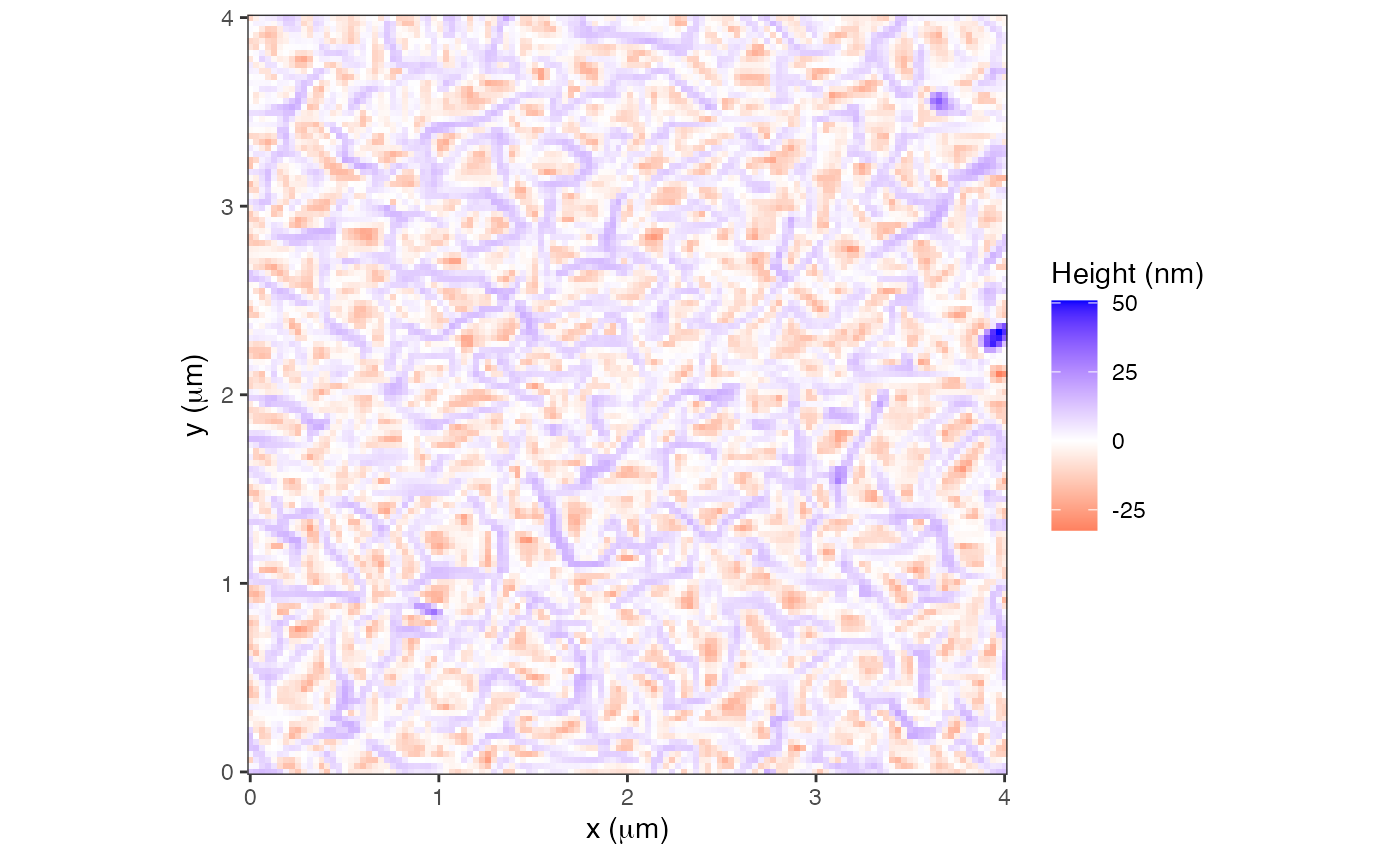
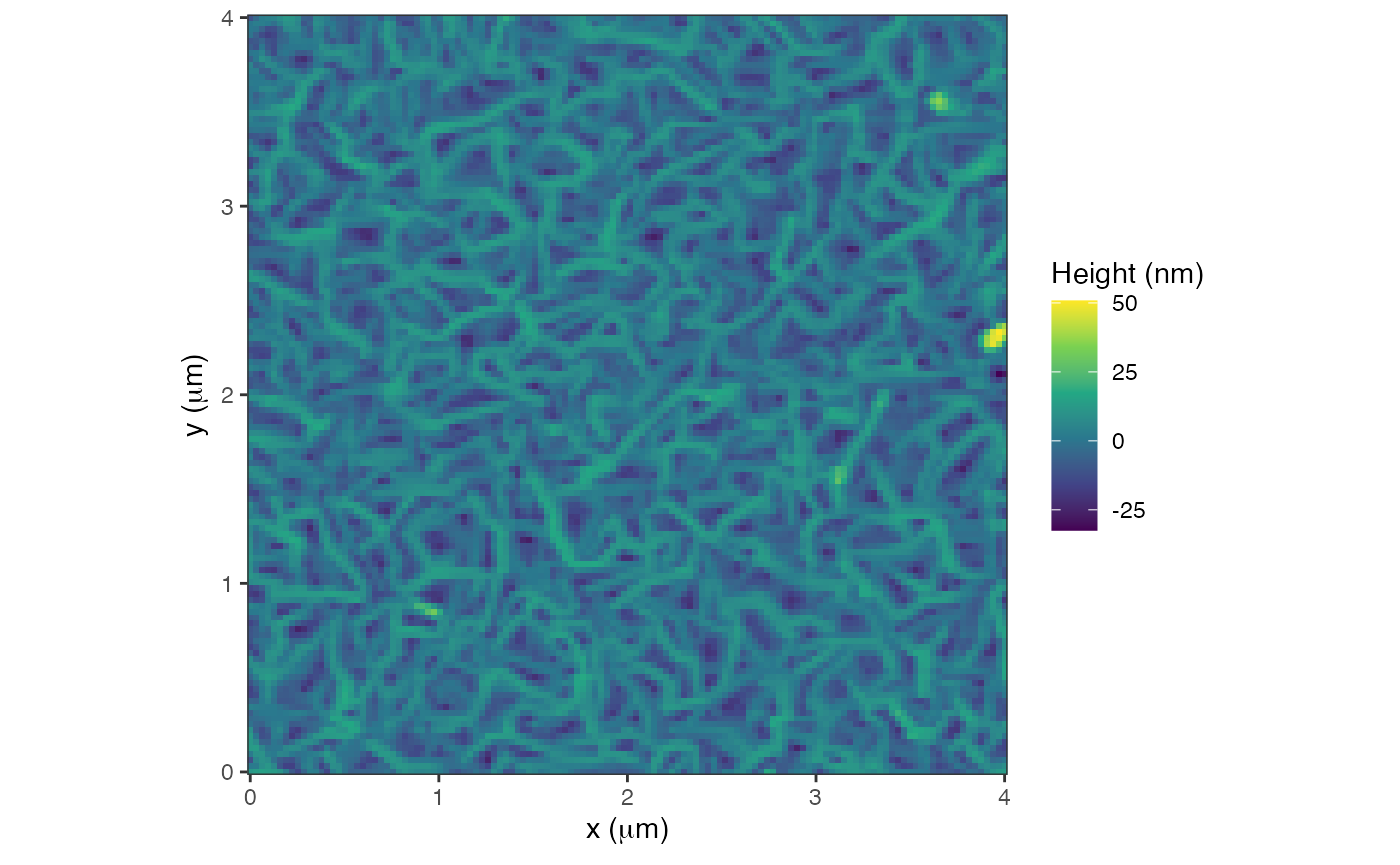
add viridis palette as default color palette

diff --git a/docs/index.html b/docs/index.html
@@ -93,9 +93,14 @@
 
 
 <div class="section level1">
-<div class="page-header"><h1 id="nanoscopeafm-">nanoscopeAFM <img src="reference/figures/logo.png" align="right" alt="" width="360"><a class="anchor" aria-label="anchor" href="#nanoscopeafm-"></a>
+<div class="page-header"><h1 id="nanoscopeafm-">nanoscopeAFM <img src="reference/figures/logo.png" align="right" alt="" width="250"><a class="anchor" aria-label="anchor" href="#nanoscopeafm-"></a>
 </h1></div>
 <p>Imports and analyzes Atomic Force Microsocpy images; currently four types are supported, images from Nanosurf (.nid), Veeco Multimode Nanoscope III (.000), Park AFM images (.tiff), and Asylum Research AFM images (.ibw).</p>
+<p>There are two main points for the development of this R package:</p>
+<ul>
+<li>Using this data class, a series of images can be analyzed uniformly and quickly.</li>
+<li>Access to each data point allows us to integrate mathematical models directly to the original data.</li>
+</ul>
 <div class="section level2">
 <h2 id="installation">Installation<a class="anchor" aria-label="anchor" href="#installation"></a>
 </h2>
@@ -120,30 +125,40 @@
 <div class="section level2">
 <h2 id="usage">Usage<a class="anchor" aria-label="anchor" href="#usage"></a>
 </h2>
-<p>Complete descriptions for <a href="https://thomasgredig.github.io/nanoscopeAFM/">nanoscopeAFM library functions</a> and examples in the <a href="https://thomasgredig.github.io/nanoscopeAFM/articles/AFM-graphTypes.html">Article Vignettes</a>.</p>
+<p>Complete descriptions for <a href="https://thomasgredig.github.io/nanoscopeAFM/">nanoscopeAFM library functions</a> and examples in the <a href="https://thomasgredig.github.io/nanoscopeAFM/articles/">Article Vignettes</a>.</p>
+<div class="section level3">
+<h3 id="afm-data">AFM data<a class="anchor" aria-label="anchor" href="#afm-data"></a>
+</h3>
 <p>Use this package to generate <code>AFMdata</code> S4 data objects, which can be used to quickly display AFM data and also process AFM data. Here are some examples:</p>
-<p>Creating an <code>AFMdata</code> data object:</p>
+<p>Creating an <code>AFMdata</code> data object, then output a graph and output a summary of characteristics:</p>
 <div class="sourceCode" id="cb2"><pre class="downlit sourceCode r">
-<code class="sourceCode R"><span class="va">d</span> <span class="op">=</span> <span class="fu"><a href="reference/AFM.import.html">AFM.import</a></span><span class="op">(</span><span class="st">'image.ibw'</span><span class="op">)</span>
-<span class="fu"><a href="https://rdrr.io/r/base/class.html" class="external-link">class</a></span><span class="op">(</span><span class="va">d</span><span class="op">)</span></code></pre></div>
-<p>Print essential data and output a summary:</p>
-<div class="sourceCode" id="cb3"><pre class="downlit sourceCode r">
-<code class="sourceCode R"><span class="fu"><a href="https://rdrr.io/r/base/print.html" class="external-link">print</a></span><span class="op">(</span><span class="va">d</span><span class="op">)</span>
+<code class="sourceCode R"><span class="va">d</span> <span class="op">=</span> <span class="fu"><a href="reference/AFM.import.html">AFM.import</a></span><span class="op">(</span><span class="fu"><a href="reference/AFM.getSampleImages.html">AFM.getSampleImages</a></span><span class="op">(</span>type<span class="op">=</span><span class="st">'ibw'</span><span class="op">)</span><span class="op">)</span>
+<span class="fu"><a href="https://rdrr.io/r/base/class.html" class="external-link">class</a></span><span class="op">(</span><span class="va">d</span><span class="op">)</span>
+<span class="fu"><a href="https://rdrr.io/r/graphics/plot.default.html" class="external-link">plot</a></span><span class="op">(</span><span class="va">d</span><span class="op">)</span>
+<span class="fu"><a href="https://rdrr.io/r/base/print.html" class="external-link">print</a></span><span class="op">(</span><span class="va">d</span><span class="op">)</span>
 <span class="fu"><a href="https://rdrr.io/r/base/summary.html" class="external-link">summary</a></span><span class="op">(</span><span class="va">d</span><span class="op">)</span></code></pre></div>
-<p>Graph the object using ggplot2 package:</p>
-<div class="sourceCode" id="cb4"><pre class="downlit sourceCode r">
-<code class="sourceCode R"><span class="fu"><a href="https://rdrr.io/r/graphics/plot.default.html" class="external-link">plot</a></span><span class="op">(</span><span class="va">d</span><span class="op">)</span></code></pre></div>
 </div>
-<div class="section level2">
-<h2 id="image-info">Image Info<a class="anchor" aria-label="anchor" href="#image-info"></a>
-</h2>
-<p>Use the <code><a href="reference/AFMinfo.html">AFMinfo()</a></code> function to obtain information about the AFM image. The information depends on the file format, but some items are common for all images; these items start with <strong>“INFO.”</strong>.</p>
+<div class="section level3">
+<h3 id="afm-info">AFM info<a class="anchor" aria-label="anchor" href="#afm-info"></a>
+</h3>
+<p>Use the <code><a href="reference/AFMinfo.html">AFMinfo()</a></code> function to obtain information about the AFM image. The information depends on the file format, but some items are common for all images, see <code>names(h)</code>, such as <code>widthPixel</code>, <code>scanRate.Hz</code>, etc.; others can be obtained with <code><a href="reference/AFMinfo.item.html">AFMinfo.item()</a></code>.</p>
+<div class="sourceCode" id="cb3"><pre class="downlit sourceCode r">
+<code class="sourceCode R"><span class="va">afmInfo</span> <span class="op">=</span> <span class="fu"><a href="reference/AFMinfo.html">AFMinfo</a></span><span class="op">(</span><span class="fu"><a href="reference/AFM.getSampleImages.html">AFM.getSampleImages</a></span><span class="op">(</span>type<span class="op">=</span><span class="st">'ibw'</span><span class="op">)</span><span class="op">)</span>
+<span class="fu"><a href="reference/AFMinfo.item.html">AFMinfo.item</a></span><span class="op">(</span><span class="va">afmInfo</span>, <span class="st">'ScanSpeed'</span><span class="op">)</span></code></pre></div>
+<p>The AFM image information can also be exported to a file.</p>
+<div class="sourceCode" id="cb4"><pre class="downlit sourceCode r">
+<code class="sourceCode R"><span class="fu"><a href="https://rdrr.io/r/utils/write.table.html" class="external-link">write.csv</a></span><span class="op">(</span><span class="va">afmInfo</span><span class="op">$</span><span class="va">data</span>, file<span class="op">=</span><span class="st">'AFMinfo.csv'</span>, row.names <span class="op">=</span> <span class="cn">FALSE</span><span class="op">)</span></code></pre></div>
+</div>
+<div class="section level3">
+<h3 id="afm-math">AFM math<a class="anchor" aria-label="anchor" href="#afm-math"></a>
+</h3>
+<p>Some properties about the image are included in the <code>AFMdata</code> object, but others - like the roughness - need to be computed. In order to obtain, the computed values, use the <code>AFMmath</code> object, which is generated from the <code>AFMdata</code> class.</p>
 <div class="sourceCode" id="cb5"><pre class="downlit sourceCode r">
-<code class="sourceCode R"><span class="va">r1</span> <span class="op">=</span> <span class="fu"><a href="reference/AFMinfo.html">AFMinfo</a></span><span class="op">(</span><span class="va">fname</span><span class="op">)</span>
-<span class="fu"><a href="https://rdrr.io/r/base/summary.html" class="external-link">summary</a></span><span class="op">(</span><span class="va">fname</span><span class="op">)</span></code></pre></div>
-<p>The AFM image information can also be saved into a file.</p>
-<div class="sourceCode" id="cb6"><pre class="downlit sourceCode r">
-<code class="sourceCode R"><span class="fu"><a href="https://rdrr.io/r/utils/write.table.html" class="external-link">write.csv</a></span><span class="op">(</span><span class="va">r1</span><span class="op">$</span><span class="va">data</span>, file<span class="op">=</span><span class="st">'AFMinfo.csv'</span>, row.names <span class="op">=</span> <span class="cn">FALSE</span><span class="op">)</span></code></pre></div>
+<code class="sourceCode R"><span class="va">filename</span> <span class="op">=</span> <span class="fu"><a href="reference/AFM.getSampleImages.html">AFM.getSampleImages</a></span><span class="op">(</span>type<span class="op">=</span><span class="st">'ibw'</span><span class="op">)</span>
+<span class="va">afmMath</span> <span class="op">=</span> <span class="fu"><a href="reference/AFM.math.params.html">AFM.math.params</a></span><span class="op">(</span><span class="fu"><a href="reference/AFM.import.html">AFM.import</a></span><span class="op">(</span><span class="va">filename</span><span class="op">)</span><span class="op">)</span>
+<span class="fu"><a href="https://rdrr.io/r/base/summary.html" class="external-link">summary</a></span><span class="op">(</span><span class="va">afmMath</span><span class="op">)</span>
+<span class="va">afmMath</span><span class="op">$</span><span class="va">Ra</span></code></pre></div>
+</div>
 </div>
 <div class="section level2">
 <h2 id="image-analysis">Image Analysis<a class="anchor" aria-label="anchor" href="#image-analysis"></a>
@@ -155,20 +170,18 @@
 <li><a href="https://thomasgredig.github.io/nanoscopeAFM/reference/AFM.linePlot.html">Profile lines</a></li>
 <li><a href="https://thomasgredig.github.io/nanoscopeAFM/reference/AFM.math.params.html">Roughness analysis</a></li>
 </ul>
+<p>Example to extract image roughness for a series of images:</p>
+<div class="sourceCode" id="cb6"><pre class="downlit sourceCode r">
+<code class="sourceCode R"><span class="va">file.list</span> <span class="op">=</span> <span class="fu"><a href="reference/AFM.getSampleImages.html">AFM.getSampleImages</a></span><span class="op">(</span><span class="op">)</span>
+<span class="va">Ra</span> <span class="op">=</span> <span class="fu"><a href="https://rdrr.io/r/base/c.html" class="external-link">c</a></span><span class="op">(</span><span class="op">)</span>
+<span class="kw">for</span><span class="op">(</span><span class="va">filename</span> <span class="kw">in</span> <span class="va">file.list</span><span class="op">)</span> <span class="op">{</span>
+  <span class="va">Ra</span> <span class="op">=</span> <span class="fu"><a href="https://rdrr.io/r/base/c.html" class="external-link">c</a></span><span class="op">(</span><span class="va">Ra</span>, <span class="fu"><a href="reference/AFM.math.params.html">AFM.math.params</a></span><span class="op">(</span><span class="fu"><a href="reference/AFM.import.html">AFM.import</a></span><span class="op">(</span><span class="va">filename</span><span class="op">)</span><span class="op">)</span><span class="op">$</span><span class="va">Ra</span><span class="op">)</span>
+<span class="op">}</span>
+<span class="fu"><a href="https://rdrr.io/r/base/data.frame.html" class="external-link">data.frame</a></span><span class="op">(</span>
+  name <span class="op">=</span> <span class="fu"><a href="https://rdrr.io/r/base/basename.html" class="external-link">basename</a></span><span class="op">(</span><span class="va">file.list</span><span class="op">)</span>,
+  <span class="va">Ra</span>
+<span class="op">)</span></code></pre></div>
 </div>
-</div>
-<div class="section level1">
-<h1 id="technical-notes">Technical Notes<a class="anchor" aria-label="anchor" href="#technical-notes"></a>
-</h1>
-<ul>
-<li>The <a href="https://masteringelectronicsdesign.com/an-adc-and-dac-least-significant-bit-lsb/" class="external-link">least significant bit (LSB)</a> provides the smallest voltage step, given the 16-bit resolution of the NanoScope AFM, then Vref = 2^16*LSB.</li>
-<li>The <a href="http://www.weizmann.ac.il/Chemical_Research_Support/surflab/peter/headers/" class="external-link">header file</a> is documented for versions 2,3, and 4. <a href="https://bioafm.physics.leidenuniv.nl/dokuwiki/lib/exe/fetch.php?media=afm:nanoscope_software_8.10_user_guide-d_004-1025-000_.pdf" class="external-link">Z-scaling Info</a>
-</li>
-<li><a href="https://www.instructables.com/A-Low-Cost-Atomic-Force-Microscope-%E4%BD%8E%E6%88%90%E6%9C%AC%E5%8E%9F%E5%AD%90%E5%8A%9B%E9%A1%AF%E5%BE%AE%E9%8F%A1/" class="external-link">Low Cost DIY AFM</a></li>
-<li>
-<a href="https://rdrr.io/cran/AFM/" class="external-link">AFM Analysis R package</a> by Mathieu Beauvais on <a href="https://github.com/cran/AFM" class="external-link">cran/AFM</a>
-</li>
-</ul>
 </div>
 
   </div>

diff --git a/docs/reference/AFM.histogram.html b/docs/reference/AFM.histogram.html
@@ -92,27 +92,17 @@ data is returned</p></dd>
     <h2>Examples</h2>
     <div class="sourceCode"><pre class="sourceCode r"><code><span class="r-in"><span class="va">d</span> <span class="op">=</span> <span class="fu"><a href="AFM.import.html">AFM.import</a></span><span class="op">(</span><span class="fu"><a href="AFM.getSampleImages.html">AFM.getSampleImages</a></span><span class="op">(</span>type<span class="op">=</span><span class="st">'ibw'</span><span class="op">)</span><span class="op">[</span><span class="fl">1</span><span class="op">]</span><span class="op">)</span></span>
 <span class="r-in"><span class="fu"><a href="https://rdrr.io/r/utils/head.html" class="external-link">head</a></span><span class="op">(</span><span class="fu">AFM.histogram</span><span class="op">(</span><span class="va">d</span>, dataOnly<span class="op">=</span><span class="cn">TRUE</span><span class="op">)</span>,n<span class="op">=</span><span class="fl">20</span><span class="op">)</span></span>
-<span class="r-out co"><span class="r-pr">#&gt;</span>     mids     zDensity</span>
-<span class="r-out co"><span class="r-pr">#&gt;</span> 1  -32.5 6.103516e-05</span>
-<span class="r-out co"><span class="r-pr">#&gt;</span> 2  -31.5 0.000000e+00</span>
-<span class="r-out co"><span class="r-pr">#&gt;</span> 3  -30.5 0.000000e+00</span>
-<span class="r-out co"><span class="r-pr">#&gt;</span> 4  -29.5 0.000000e+00</span>
-<span class="r-out co"><span class="r-pr">#&gt;</span> 5  -28.5 6.103516e-05</span>
-<span class="r-out co"><span class="r-pr">#&gt;</span> 6  -27.5 0.000000e+00</span>
-<span class="r-out co"><span class="r-pr">#&gt;</span> 7  -26.5 1.831055e-04</span>
-<span class="r-out co"><span class="r-pr">#&gt;</span> 8  -25.5 1.831055e-04</span>
-<span class="r-out co"><span class="r-pr">#&gt;</span> 9  -24.5 1.220703e-04</span>
-<span class="r-out co"><span class="r-pr">#&gt;</span> 10 -23.5 3.051758e-04</span>
-<span class="r-out co"><span class="r-pr">#&gt;</span> 11 -22.5 9.765625e-04</span>
-<span class="r-out co"><span class="r-pr">#&gt;</span> 12 -21.5 1.220703e-03</span>
-<span class="r-out co"><span class="r-pr">#&gt;</span> 13 -20.5 1.586914e-03</span>
-<span class="r-out co"><span class="r-pr">#&gt;</span> 14 -19.5 2.746582e-03</span>
-<span class="r-out co"><span class="r-pr">#&gt;</span> 15 -18.5 4.028320e-03</span>
-<span class="r-out co"><span class="r-pr">#&gt;</span> 16 -17.5 4.943848e-03</span>
-<span class="r-out co"><span class="r-pr">#&gt;</span> 17 -16.5 6.103516e-03</span>
-<span class="r-out co"><span class="r-pr">#&gt;</span> 18 -15.5 1.080322e-02</span>
-<span class="r-out co"><span class="r-pr">#&gt;</span> 19 -14.5 1.165771e-02</span>
-<span class="r-out co"><span class="r-pr">#&gt;</span> 20 -13.5 1.464844e-02</span>
+<span class="r-out co"><span class="r-pr">#&gt;</span>    mids     zDensity</span>
+<span class="r-out co"><span class="r-pr">#&gt;</span> 1   -35 6.103516e-05</span>
+<span class="r-out co"><span class="r-pr">#&gt;</span> 2   -25 4.638672e-03</span>
+<span class="r-out co"><span class="r-pr">#&gt;</span> 3   -15 1.126709e-01</span>
+<span class="r-out co"><span class="r-pr">#&gt;</span> 4    -5 3.567505e-01</span>
+<span class="r-out co"><span class="r-pr">#&gt;</span> 5     5 4.330444e-01</span>
+<span class="r-out co"><span class="r-pr">#&gt;</span> 6    15 9.112549e-02</span>
+<span class="r-out co"><span class="r-pr">#&gt;</span> 7    25 9.155273e-04</span>
+<span class="r-out co"><span class="r-pr">#&gt;</span> 8    35 4.272461e-04</span>
+<span class="r-out co"><span class="r-pr">#&gt;</span> 9    45 3.051758e-04</span>
+<span class="r-out co"><span class="r-pr">#&gt;</span> 10   55 6.103516e-05</span>
 <span class="r-in"><span class="fu">AFM.histogram</span><span class="op">(</span><span class="va">d</span><span class="op">)</span></span>
 <span class="r-plt img"><img src="AFM.histogram-1.png" alt="" width="700" height="433"></span>
 </code></pre></div>

diff --git a/docs/articles/AFM-image-summaries.html b/docs/articles/AFM-image-summaries.html
@@ -860,7 +860,7 @@
 <span class="co">#&gt; [1] "Cypher"</span>
 <span class="co">#&gt; </span>
 <span class="co">#&gt; $filename</span>
-<span class="co">#&gt; [1] "/private/var/folders/n7/c8bjcf7n25g74wqr3_7cgpvh0000gt/T/RtmpyMJmzf/temp_libpath38b8649f4b4a/nanoscopeAFM/extdata/AR_20211011.ibw"</span>
+<span class="co">#&gt; [1] "/private/var/folders/n7/c8bjcf7n25g74wqr3_7cgpvh0000gt/T/RtmpyNBULa/temp_libpath4dc16d59d27/nanoscopeAFM/extdata/AR_20211011.ibw"</span>
 <span class="co">#&gt; </span>
 <span class="co">#&gt; $widthPixel</span>
 <span class="co">#&gt; [1] " 128"</span>
@@ -1456,7 +1456,7 @@
 <span class="co">#&gt; [1] "NanoSurf"</span>
 <span class="co">#&gt; </span>
 <span class="co">#&gt; $filename</span>
-<span class="co">#&gt; [1] "/private/var/folders/n7/c8bjcf7n25g74wqr3_7cgpvh0000gt/T/RtmpyMJmzf/temp_libpath38b8649f4b4a/nanoscopeAFM/extdata/NanoSurf_20160301.nid"</span>
+<span class="co">#&gt; [1] "/private/var/folders/n7/c8bjcf7n25g74wqr3_7cgpvh0000gt/T/RtmpyNBULa/temp_libpath4dc16d59d27/nanoscopeAFM/extdata/NanoSurf_20160301.nid"</span>
 <span class="co">#&gt; </span>
 <span class="co">#&gt; $widthPixel</span>
 <span class="co">#&gt; [1] "128 "</span>
@@ -1541,7 +1541,7 @@
 <span class="co">#&gt; [1] "Park"</span>
 <span class="co">#&gt; </span>
 <span class="co">#&gt; $filename</span>
-<span class="co">#&gt; [1] "/private/var/folders/n7/c8bjcf7n25g74wqr3_7cgpvh0000gt/T/RtmpyMJmzf/temp_libpath38b8649f4b4a/nanoscopeAFM/extdata/Park_20210916_034.tiff"</span>
+<span class="co">#&gt; [1] "/private/var/folders/n7/c8bjcf7n25g74wqr3_7cgpvh0000gt/T/RtmpyNBULa/temp_libpath4dc16d59d27/nanoscopeAFM/extdata/Park_20210916_034.tiff"</span>
 <span class="co">#&gt; </span>
 <span class="co">#&gt; $widthPixel</span>
 <span class="co">#&gt; [1] "256"</span>

diff --git a/docs/reference/plot.AFMdata.html b/docs/reference/plot.AFMdata.html
@@ -74,6 +74,7 @@
   graphType <span class="op">=</span> <span class="fl">1</span>,
   trimPeaks <span class="op">=</span> <span class="fl">0</span>,
   addLines <span class="op">=</span> <span class="cn">FALSE</span>,
+  redBlue <span class="op">=</span> <span class="cn">FALSE</span>,
   verbose <span class="op">=</span> <span class="cn">FALSE</span>,
   <span class="va">...</span>
 <span class="op">)</span></code></pre></div>
@@ -93,6 +94,8 @@
 <dd><p>value from 0 to 1, where 0=trim 0% and 1=trim 100% of data points, generally a value less than 0.01 is useful to elevate the contrast of the image</p></dd>
 <dt>addLines</dt>
 <dd><p>if <code>TRUE</code> lines from obj are added to graph, lines can be added with <code><a href="AFM.lineProfile.html">AFM.lineProfile()</a></code> for example</p></dd>
+<dt>redBlue</dt>
+<dd><p>if <code>TRUE</code> output red / blue color scheme</p></dd>
 <dt>verbose</dt>
 <dd><p>if <code>TRUE</code> it outputs additional information.</p></dd>
 <dt>...</dt>

diff --git a/docs/reference/print.AFMdata.html b/docs/reference/print.AFMdata.html
@@ -97,7 +97,7 @@ the description, channel, image size, history, and filename</p>
 <span class="r-out co"><span class="r-pr">#&gt;</span> Channel:     HeightRetrace AmplitudeRetrace PhaseRetrace ZSensorRetrace </span>
 <span class="r-out co"><span class="r-pr">#&gt;</span>              4000 nm  x  4000 nm </span>
 <span class="r-out co"><span class="r-pr">#&gt;</span> History:      </span>
-<span class="r-out co"><span class="r-pr">#&gt;</span> Filename:    /private/var/folders/n7/c8bjcf7n25g74wqr3_7cgpvh0000gt/T/RtmpyMJmzf/temp_libpath38b8649f4b4a/nanoscopeAFM/extdata/AR_20211011.ibw</span>
+<span class="r-out co"><span class="r-pr">#&gt;</span> Filename:    /private/var/folders/n7/c8bjcf7n25g74wqr3_7cgpvh0000gt/T/RtmpyNBULa/temp_libpath4dc16d59d27/nanoscopeAFM/extdata/AR_20211011.ibw</span>
 </code></pre></div>
     </div>
   </div>

diff --git a/docs/news/index.html b/docs/news/index.html
@@ -62,7 +62,8 @@
 
     <div class="section level2">
 <h2 class="page-header" data-toc-text="2.0.5" id="nanoscopeafm-205">nanoscopeAFM 2.0.5<a class="anchor" aria-label="anchor" href="#nanoscopeafm-205"></a></h2>
-<ul><li>run devtools::test_coverage()</li>
+<ul><li>create sticker with hexSticker package</li>
+<li>run devtools::test_coverage()</li>
 <li>run rhub::check_for_cran()</li>
 <li>fix several variables to eliminate rchk warnings</li>
 <li>allow <code>trimPeaks</code>, which removes extreme points for better contrast</li>

diff --git a/NEWS.md b/NEWS.md
@@ -1,5 +1,6 @@
 # nanoscopeAFM 2.0.5
 
+* add viridis color palette by default, revert back with `redBlue=TRUE`
 * create sticker with hexSticker package
 * run devtools::test_coverage()
 * run rhub::check_for_cran()
